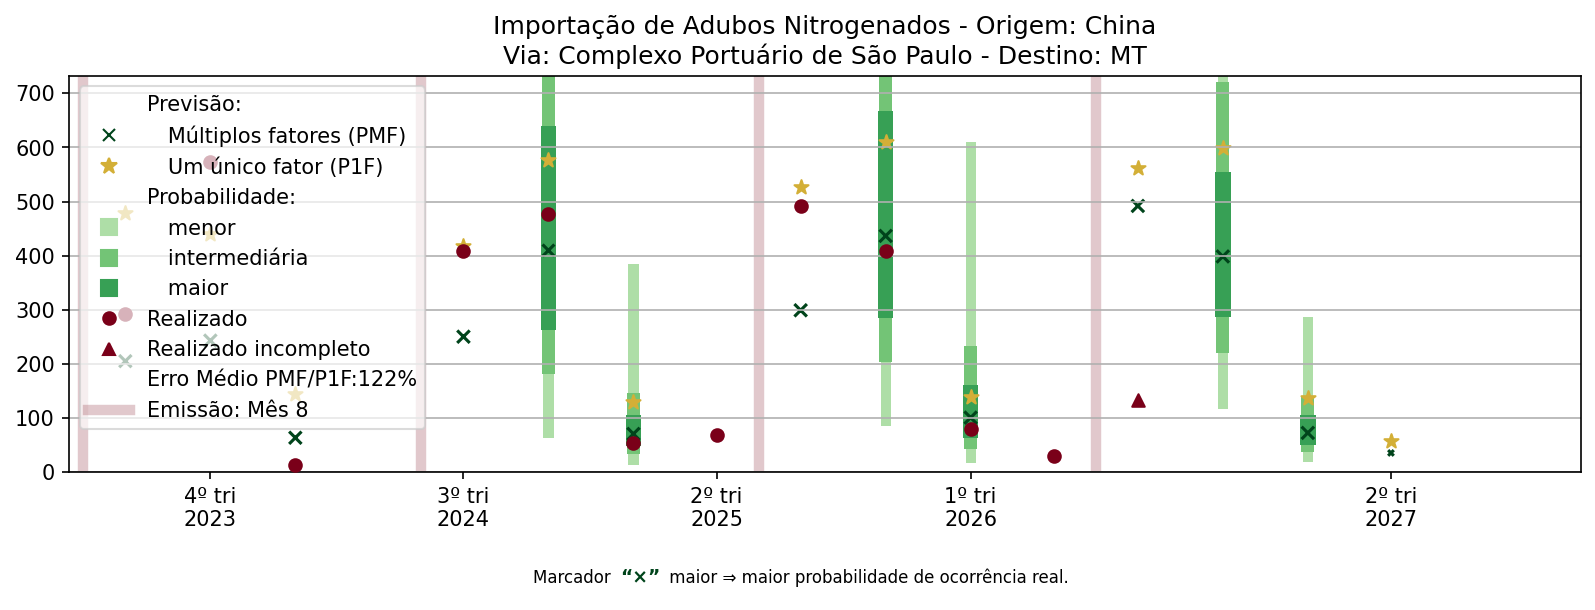
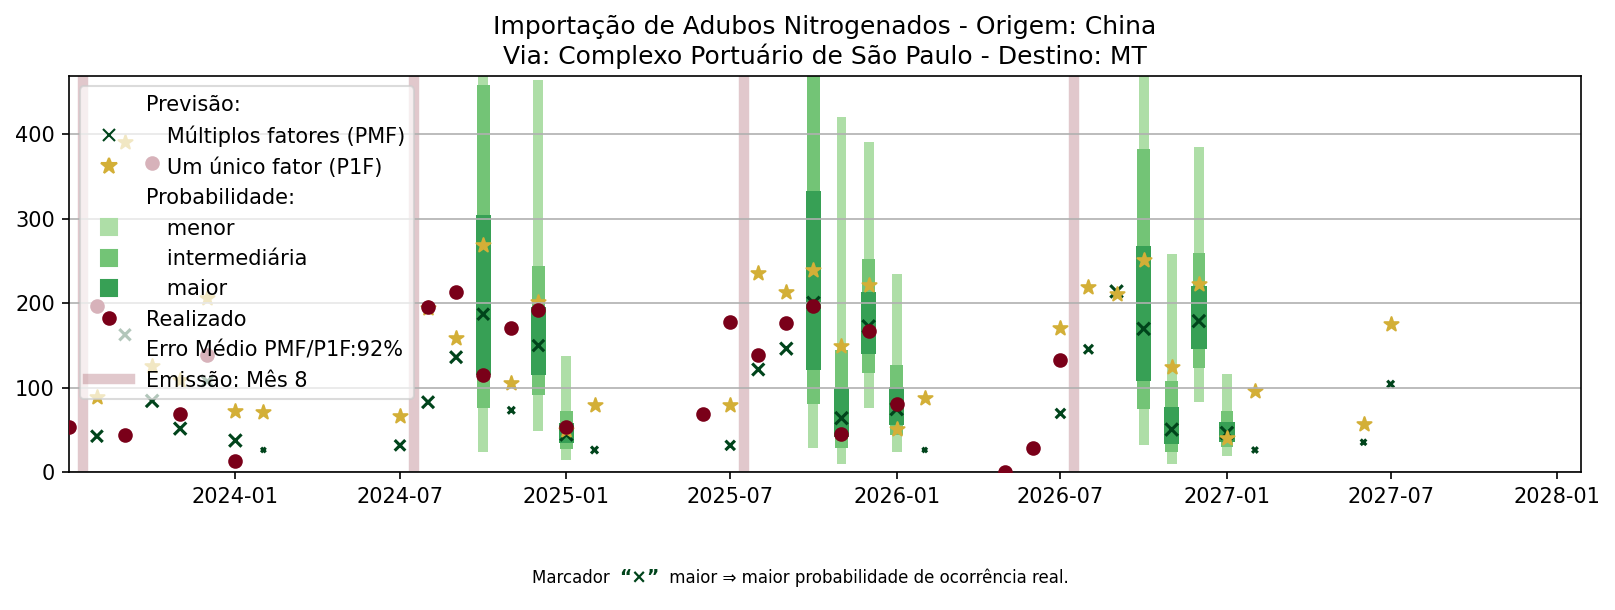
Publicar paginas dos cenarios

diff --git a/cenarios/hormuz/index.html b/cenarios/hormuz/index.html
@@ -3,7 +3,7 @@
 <head>
   <meta charset="utf-8">
   <meta name="viewport" content="width=device-width, initial-scale=1">
-  <meta name="description" content="Condições assumidas para uma restrição da passagem pelo Estreito de Hormuz.">
+  <meta name="description" content="Restrição da passagem pelo Estreito de Hormuz.">
   <title>Cenário Hormuz | QuantImport</title>
   <style>
     :root { --verde: #146b45; --verde-escuro: #0d4931; --dourado: #c8a52b; --texto: #20262d; --texto-suave: #667085; --borda: #e3e8e5; --fundo: #f4f7f5; --branco: #fff; --largura: 980px; }
@@ -20,9 +20,7 @@
 </head>
 <body>
   <header class="topo"><div class="topo-conteudo"><div class="marca-linha"><a class="marca" href="https://quantimportbrazil.github.io/"><img src="/pages/assets/logo.png" alt="Logotipo QuantImport"><span>QuantImport</span></a><nav class="navegacao" aria-label="Navegação principal"><a href="/">Início</a><a href="/pages/">Publicações</a></nav></div><h1>Cenário Hormuz</h1></div></header>
-  <main><section class="introducao"><p>Este cenário considera uma restrição da passagem pelo Estreito de Hormuz. Ele representa condições assumidas para comparar previsões, e não o futuro mais provável.</p></section>
-    <section class="cartoes" aria-label="Condições do cenário Hormuz"><article class="cartao"><h2>Condições consideradas</h2><p>Duração definida no Core: 6 meses.</p><p>Grupo afetado 001: Bahrein, Catar, Kuwait, Iraque.</p><p>Emirados Árabes Unidos integra o grupo 002.</p><p>As informações explicativas do grupo 001 recuam 6 meses. Nas posições abertas por esse recuo, as variáveis quantitativas comerciais (kt, kt_true, mi_fob) recebem 0.</p><p>A previsão é direcionada ao grupo 002.</p></article></section>
-    <p><a class="link-voltar" href="/pages/cenarios/">← Voltar para Cenários</a></p></main>
+  <main><section class="introducao"><p>Restrição da passagem pelo Estreito de Hormuz.</p><p>Este cenário transforma apenas variáveis explicativas; a identidade e os valores realizados do alvo são preservados.</p></section><p><a class="link-voltar" href="/pages/cenarios/">← Voltar para Cenários</a></p></main>
   <footer><div class="rodape-conteudo"><p>QuantImport · <a href="mailto:andre.bueno@quantimport.com.br">andre.bueno@quantimport.com.br</a> · Rio de Janeiro, Brasil · <a href="https://quantimportbrazil.github.io/sobre/privacidade.html">Política de Privacidade</a></p></div></footer>
 </body>
 </html>

diff --git a/cenarios/index.html b/cenarios/index.html
@@ -22,7 +22,7 @@
   <header class="topo"><div class="topo-conteudo"><div class="marca-linha"><a class="marca" href="https://quantimportbrazil.github.io/"><img src="/pages/assets/logo.png" alt="Logotipo QuantImport"><span>QuantImport</span></a><nav class="navegacao" aria-label="Navegação principal"><a href="/">Início</a><a href="/pages/">Publicações</a></nav></div><h1>Cenários</h1></div></header>
   <main><section class="introducao"><p>Cenário é um conjunto explícito de condições futuras assumidas para gerar previsões alternativas de um recorte.</p><p>Ele não representa o futuro mais provável. Mostra como a previsão se altera caso determinadas condições ocorram.</p></section>
     <ul class="pontos"><li>Cenário não é previsão de um acontecimento.</li><li>Não altera dados realizados.</li><li>As previsões resultantes ficam condicionadas às premissas adotadas.</li><li>Permite comparar consequências possíveis.</li></ul>
-    <section class="cartoes" aria-label="Cenários disponíveis"><article class="cartao"><h2>Cenário-base</h2><p>Sem premissas manuais adicionais.</p></article><a class="cartao cartao-link" href="/pages/cenarios/hormuz/"><h2>Cenário Hormuz</h2><p>Considera restrições ao comércio exterior de países cuja saída marítima depende da passagem pelo Estreito de Ormuz.</p></a></section></main>
+    <section class="cartoes" aria-label="Cenários disponíveis"><article class="cartao"><h2>Cenário-base</h2><p>Sem ocorrência extraordinária considerada.</p></article><a class="cartao cartao-link" href="/pages/cenarios/hormuz/"><h2>Hormuz</h2><p>Restrição da passagem pelo Estreito de Hormuz.</p></a></section></main>
   <footer><div class="rodape-conteudo"><p>QuantImport · <a href="mailto:andre.bueno@quantimport.com.br">andre.bueno@quantimport.com.br</a> · Rio de Janeiro, Brasil · <a href="https://quantimportbrazil.github.io/sobre/privacidade.html">Política de Privacidade</a></p></div></footer>
 </body>
 </html>

diff --git a/importacoes/produto-adubos-nitrogenados/origem-china/via-cplx-port-sp/destino-mt/cenario-1-hormuz/index.html b/importacoes/produto-adubos-nitrogenados/origem-china/via-cplx-port-sp/destino-mt/cenario-1-hormuz/index.html
@@ -247,7 +247,7 @@
         >
           <a href="/pages/">Voltar às publicações</a>
 
-          <a href="/pages/importacoes/produto-adubos-nitrogenados/origem-china/via-cplx-port-sp/">Voltar ao recorte superior</a>
+          <a href="/pages/importacoes/produto-adubos-nitrogenados/origem-china/via-cplx-port-sp/destino-mt/">Voltar ao recorte superior</a>
 
           <a href="/pages/como-interpretar/">
             Como interpretar os gráficos
@@ -272,13 +272,13 @@
 <p class="aviso-teste-online"><span>Teste online</span></p>
 
     <a
-      class="cenario"
-      href="/pages/cenarios/"
+      class="cenario extraordinario"
+      href="/pages/cenarios/hormuz/"
     >
-      Cenário-base: sem ocorrência extraordinária considerada.
+      Cenário considerado: Hormuz — Restrição da passagem pelo Estreito de Hormuz.
     </a>
 
-<nav class="comparar-cenarios" aria-label="Comparar cenários"><h2>Comparar cenários</h2><p><strong>Cenário-base</strong> · <a href="/pages/importacoes/produto-adubos-nitrogenados/origem-china/via-cplx-port-sp/destino-mt/cenario-1-hormuz/">Hormuz</a></p></nav>
+<nav class="comparar-cenarios" aria-label="Comparar cenários"><h2>Comparar cenários</h2><p><a href="/pages/importacoes/produto-adubos-nitrogenados/origem-china/via-cplx-port-sp/destino-mt/">Cenário-base</a> · <strong>Hormuz</strong></p></nav>
 
 
         <section class="grafico">
